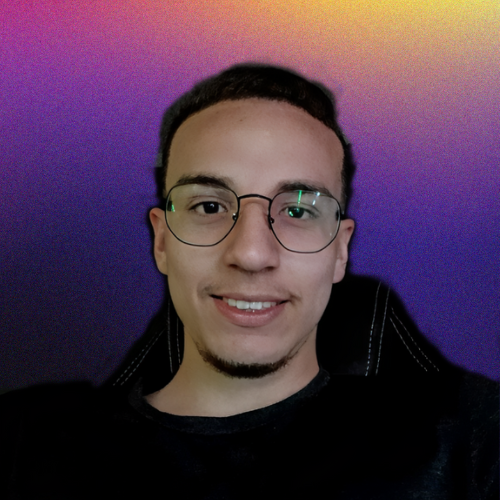
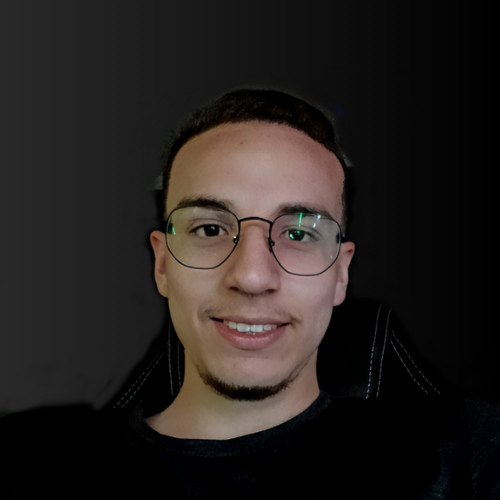
versão 1.2

diff --git a/style.css b/style.css
@@ -45,7 +45,7 @@ a:hover {
   width: 100%;
   justify-content: space-between;
   background: rgba(255, 255, 255, 0.075);
-  box-shadow: 0 8px 32px 0 rgba(0, 7, 65, 0.37);
+  box-shadow: 0 8px 32px 0 rgba(0, 0, 0, 0.37);
   backdrop-filter: blur(13.5px);
   -webkit-backdrop-filter: blur(13.5px);
   border: 1px solid rgba(255, 255, 255, 0.151);
@@ -169,8 +169,7 @@ a:hover {
 
 /* Banner */
 .banner {
-  /*background-image: url('./assets/img/6768f29a6d5da42209174c4c_\ -\ 12.png'); */
-  background-image: linear-gradient(#0500ff 0%, #570099 0%, #0000 100%);
+  background-image: linear-gradient(315deg, #2d3436 0%, #000000 74%);
   /* Substitua pelo seu URL de imagem */
   background-position: center;
   background-size: cover;
@@ -224,165 +223,29 @@ a:hover {
   background-color: #0084ff;
 }
 
-/*Sobre mim*/
+/* Sobre */
 
-#sobre {
-  background: #0000005d;
-  color: #fff;
-  padding: 100px;
+#Sobre {
+  background-color: #f9f9f9;
+  padding: 100px 0;
 }
 
-#sobre h1 {
+#Sobre h2 {
+  font-size: 2.5em;
   margin-bottom: 20px;
-  font-size: 2.5rem;
 }
 
-#sobre img {
-  width: 500px;
-  height: 500px;
-  border-radius: 30%;
+#Sobre p {
+  font-size: 1.2em;
+  margin-bottom: 20px;
 }
 
-#sobre h2 {
-  font-size: 60px;
-  padding: 20px;
-}
-
-#sobre p {
-  font-size: 20px;
-  text-align: justify;
+#Sobre img {
+  border-radius: 50px;
 }
 
 
-@media screen and (max-width: 768px) {
 
-  #sobre {
-    padding: 0;
-  }
-
-  #sobre img {
-    width: 300px;
-    height: 300px;
-    margin: 20px;
-    margin-bottom: 30px;
-    margin-left: 50px;
-  }
-
-
-}
-
-
-/*Projetos*/
-
-
-
-.skills {
-  padding: 100px;
-  color: #fff;
-  align-items: center;
-  text-align: center;
-}
-
-.cisco {
-  width: 150px;
-  height: 150px;
-}
-
-.imagens {
-  display: flex;
-  justify-content: space-around;
-  align-items: center;
-  padding: 100px;
-  display: flex;
-}
-
-.skills h1 {
-  font-size: 60px;
-  padding: 20px;
-}
-
-@media screen and (max-width: 768px) {
-  .about img {
-    width: 300px;
-    height: 300px;
-    margin: 40px;
-  }
-
-  .about h2 {
-    font-size: 40px;
-  }
-
-  .about p {
-    font-size: 20px;
-  }
-
-  .about {
-    padding: 50px;
-    display: block;
-  }
-
-  .about-text {
-    padding: 0;
-  }
-
-  .container {
-    padding: 50px;
-  }
-
-  .skills {
-    padding: 50px;
-  }
-
-  .skills h1 {
-    font-size: 40px;
-  }
-
-  .skills p {
-    font-size: 20px;
-  }
-
-  .container {
-    padding: 50px;
-  }
-
-  .skills {
-    padding: 50px;
-  }
-
-  .imagens {
-    padding: 50px;
-  }
-
-  .skills img {
-    width: 100px;
-    height: 100px;
-  }
-
-  .cisco {
-    width: 100px;
-    height: 100px;
-  }
-
-  .skills p {
-    font-size: 15px;
-  }
-
-  .skills h1 {
-    font-size: 30px;
-  }
-
-  .skills img {
-    width: 50px;
-    height: 50px;
-  }
-
-}
-
-.card {
-  background-color: #454545;
-  display: flex;
-  align-items: center;
-}
 
 footer {
   background: #2424241f;
@@ -400,8 +263,13 @@ footer a {
 }
 
 footer img {
-  width: 200px;
+  width: 80px;
   margin-bottom: 10px;
+}
+
+footer .version {
+  font-size: 0.8rem;
+  color: #ffffff83;
 }
 
 @media (max-width: 768px) {

diff --git a/index.html b/index.html
@@ -47,55 +47,25 @@
       <h4>Olá 👋, meu nome é</h4>
       <h1>Gustavo Lima</h1>
       <p>Sou Desenvolvedor web, codifico ideias, transformo em experiências. ✨</p>
-      <a href="#contato" class="banner-btn">Download CV</a>
-      <a href="#contato" class="banner-btn">Entrar em Contato</a>
     </div>
   </div>
 
-  <!-- Sobre nós -->
-  <section id="sobre">
+  <!--Sobre-->
+  <section id="Sobre">
     <div class="container">
       <div class="row">
-        <div class="col-lg-6">
-          <img src="./assets/img/perfil.png" class="img-fluid" alt="">
+        <div class="col-md-6">
+          <h2>Sobre mim</h2>
+          <p>Olá, meu nome é Gustavo Lima, sou desenvolvedor web, apaixonado por tecnologia e programação. Atualmente
+            estou cursando Análise e Desenvolvimento de Sistemas na Faculdade Impacta de Tecnologia. </p>
+          <p>Estou sempre em busca de novos desafios e aprendizados, e acredito que a tecnologia é uma ferramenta
+            poderosa para transformar o mundo. </p>
+          <p>Estou sempre em busca de novos desafios e aprendizados, e acredito que a tecnologia é uma ferramenta
+            poderosa para transformar o mundo. </p>
         </div>
-        <div class="col-lg-6">
-          <h2>Sobre Nós</h2>
-          <p>Desenvolvedor web, apaixonado por tecnologia e inovação. Atualmente estou cursando Análise e
-            Desenvolvimento de Sistemas na Faculdade Cruzeiro do Sul. Sou um entusiasta da programação e estou sempre em
-            busca de novos desafios e aprendizados.
-            <br>
-            Meu foco é desenvolver soluções web de alta qualidade, com design moderno e responsivo. Estou sempre em
-            busca de novos conhecimentos e tecnologias para aprimorar minhas habilidades e entregar o melhor resultado
-            para meus clientes
-          </p>
+        <div class="col-md-6">
+          <img src="./assets/img/perfil.png" alt="">
         </div>
-      </div>
-    </div>
-  </section>
-
-  <!-- Projetos -->
-  
-
-
-
-  <section class="skills">
-    <h1>Skills & Tools</h1>
-    <div class="imagens">
-      <div class="skill">
-        <img src="./assets/img/html-5.png" alt="HTML">
-      </div>
-      <div class="skill">
-        <img src="./assets/img/css.png" alt="CSS">
-      </div>
-      <div class="skill">
-        <img src="./assets/img/js.png" alt="JavaScript">
-      </div>
-      <div class="skill">
-        <img src="./assets/img/python.png" alt="Python" class="Python">
-      </div>
-      <div class="skill">
-        <img src="./assets/img/endpoint-security.png" alt="Endpoint Security" class="cisco">
       </div>
     </div>
   </section>
@@ -104,6 +74,7 @@
     <img src="./assets//img/logo.png" alt="">
     <p>© 2024 Gustavo Lima. Todos os direitos reservados.</p>
     <p>Feito com ❤ por Gustavo Lima</p>
+    <p class="version">Versão 1.2</p>
   </footer>
 
 
